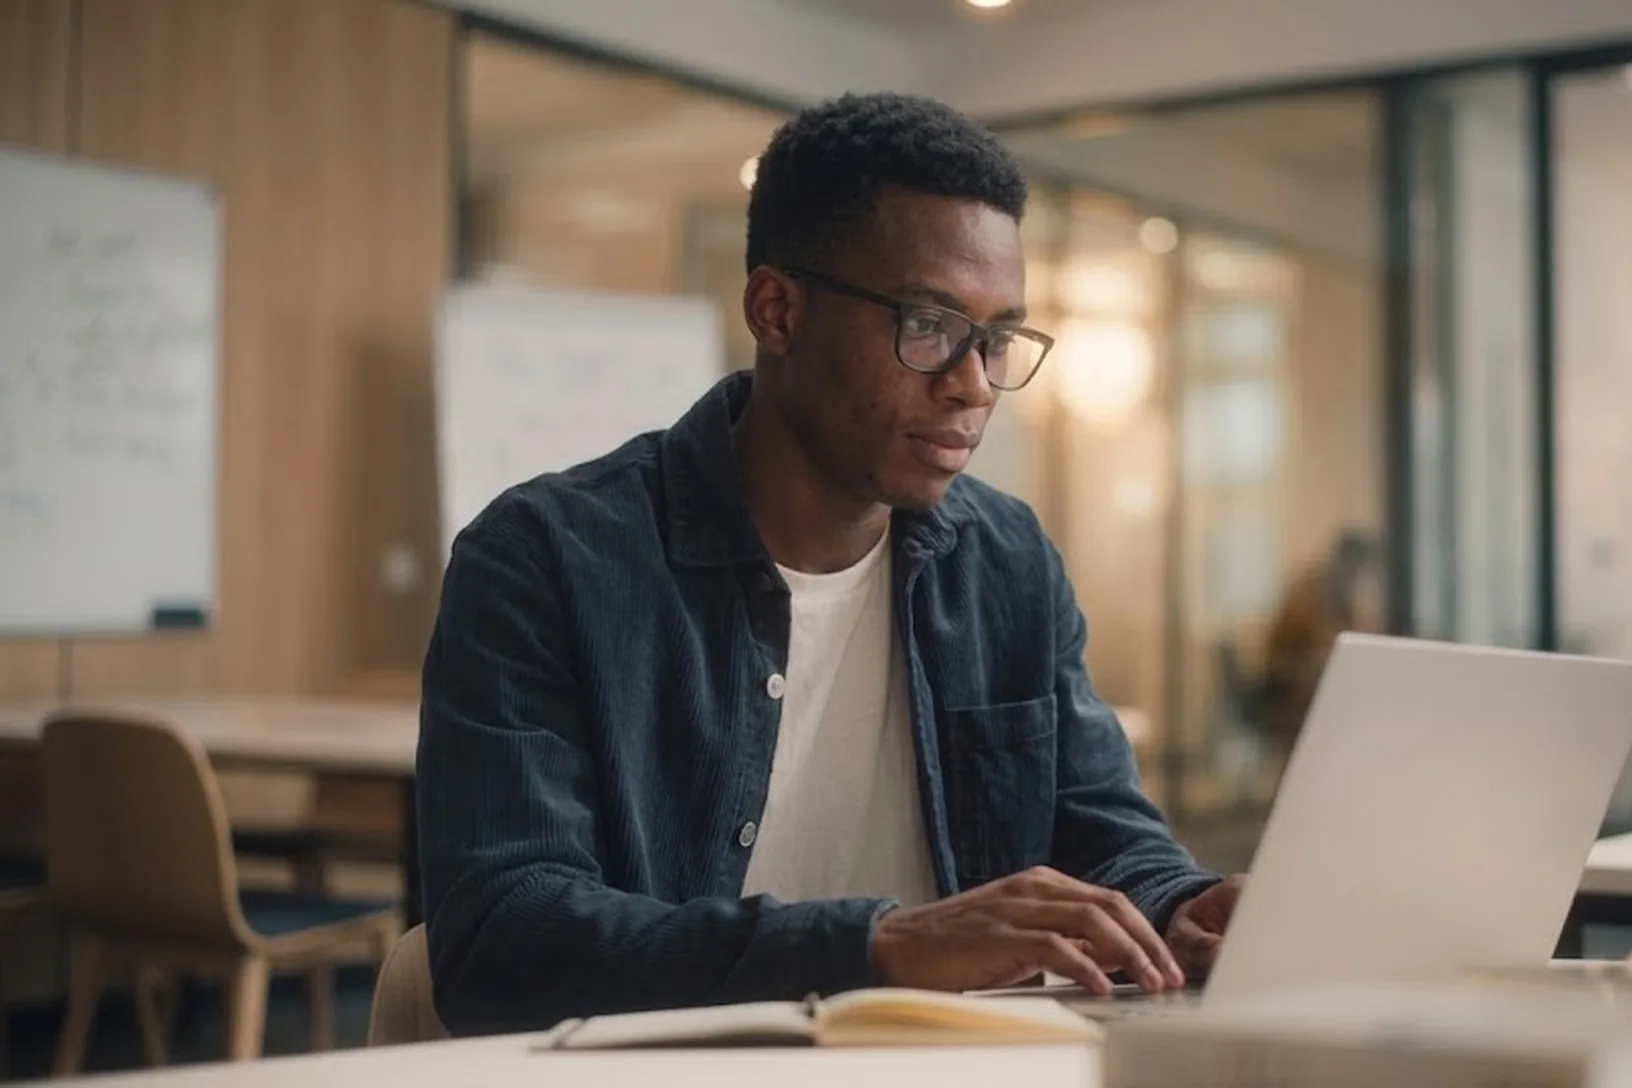
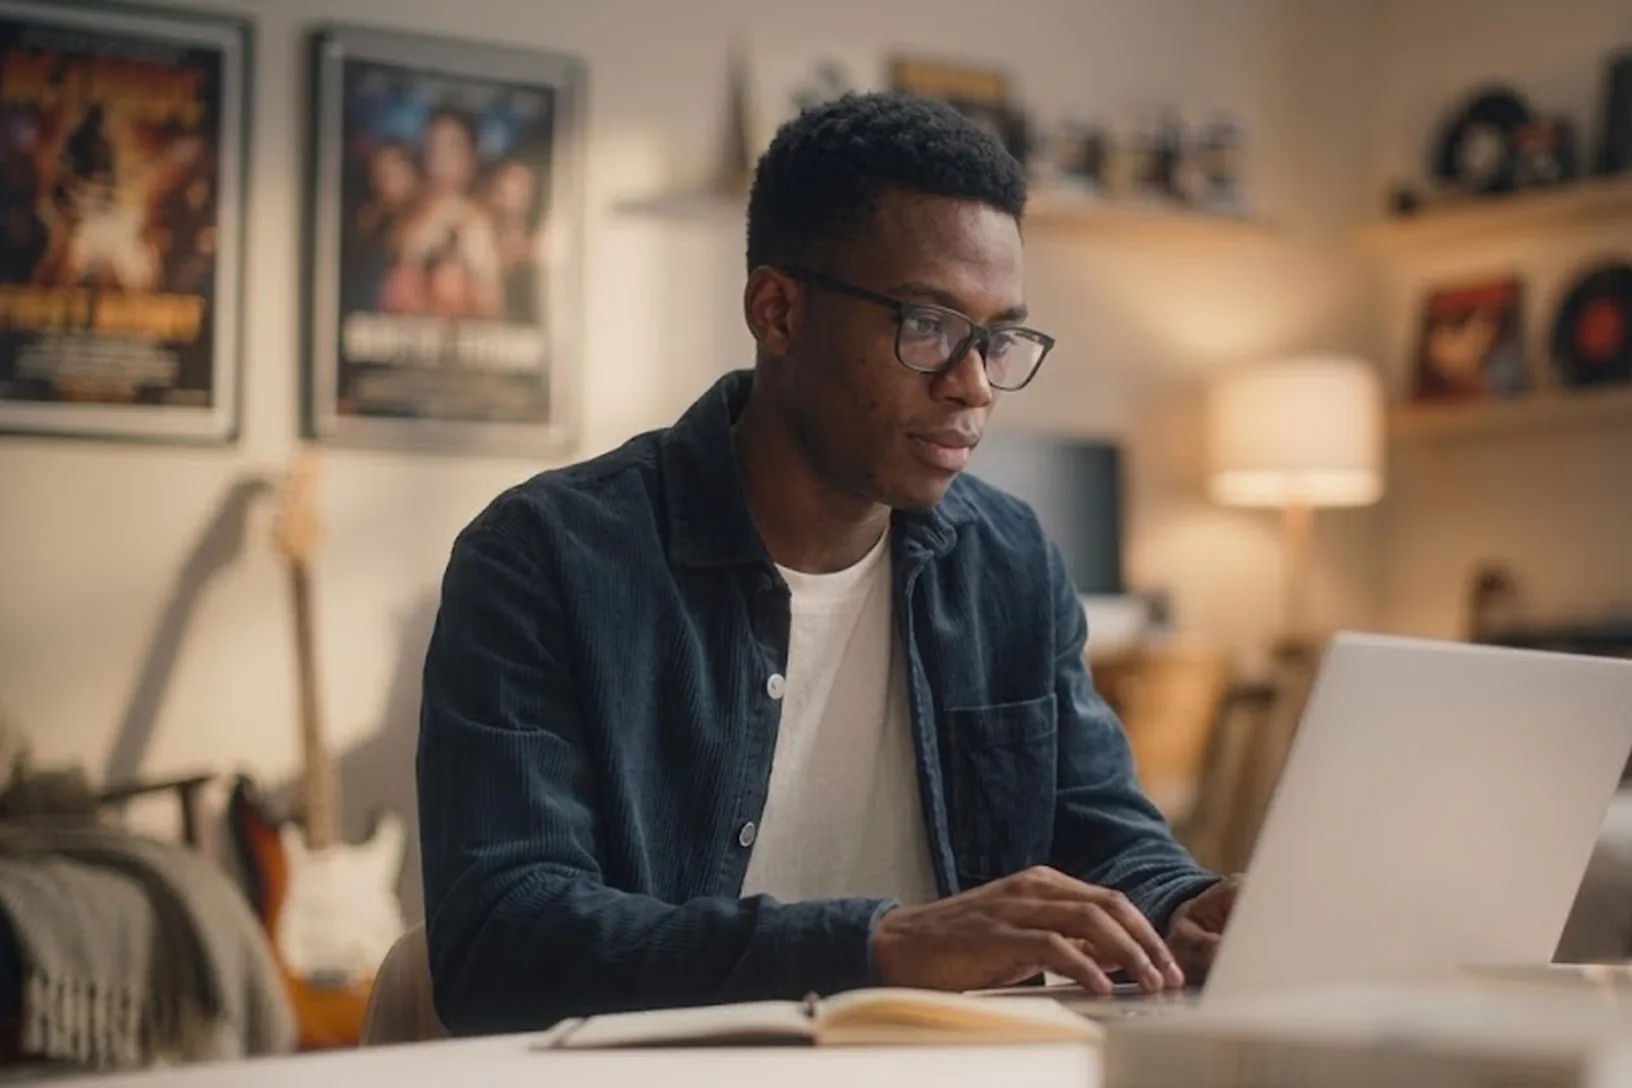
Swap hero-rot-4 photo (same person, new setting) + bump cache-buster
Claude-Session: https://claude.ai/code/session_01MJtDMFGG4fYHVUGu2EoHsB

diff --git a/index.html b/index.html
@@ -1013,8 +1013,8 @@ html{scrollbar-gutter:stable;}
            data-srcset="hero-rot-3.webp?v=2 816w, hero-rot-3-2x.webp?v=2 1632w"
            sizes="(max-width:900px) 92vw, 60vw"
            width="816" height="544" alt="">
-      <img class="hero-photo" data-src="hero-rot-4.webp?v=2"
-           data-srcset="hero-rot-4.webp?v=2 816w, hero-rot-4-2x.webp?v=2 1632w"
+      <img class="hero-photo" data-src="hero-rot-4.webp?v=3"
+           data-srcset="hero-rot-4.webp?v=3 816w, hero-rot-4-2x.webp?v=3 1632w"
            sizes="(max-width:900px) 92vw, 60vw"
            width="816" height="544" alt="">
       <img class="hero-photo" data-src="hero-rot-5.webp?v=2"
